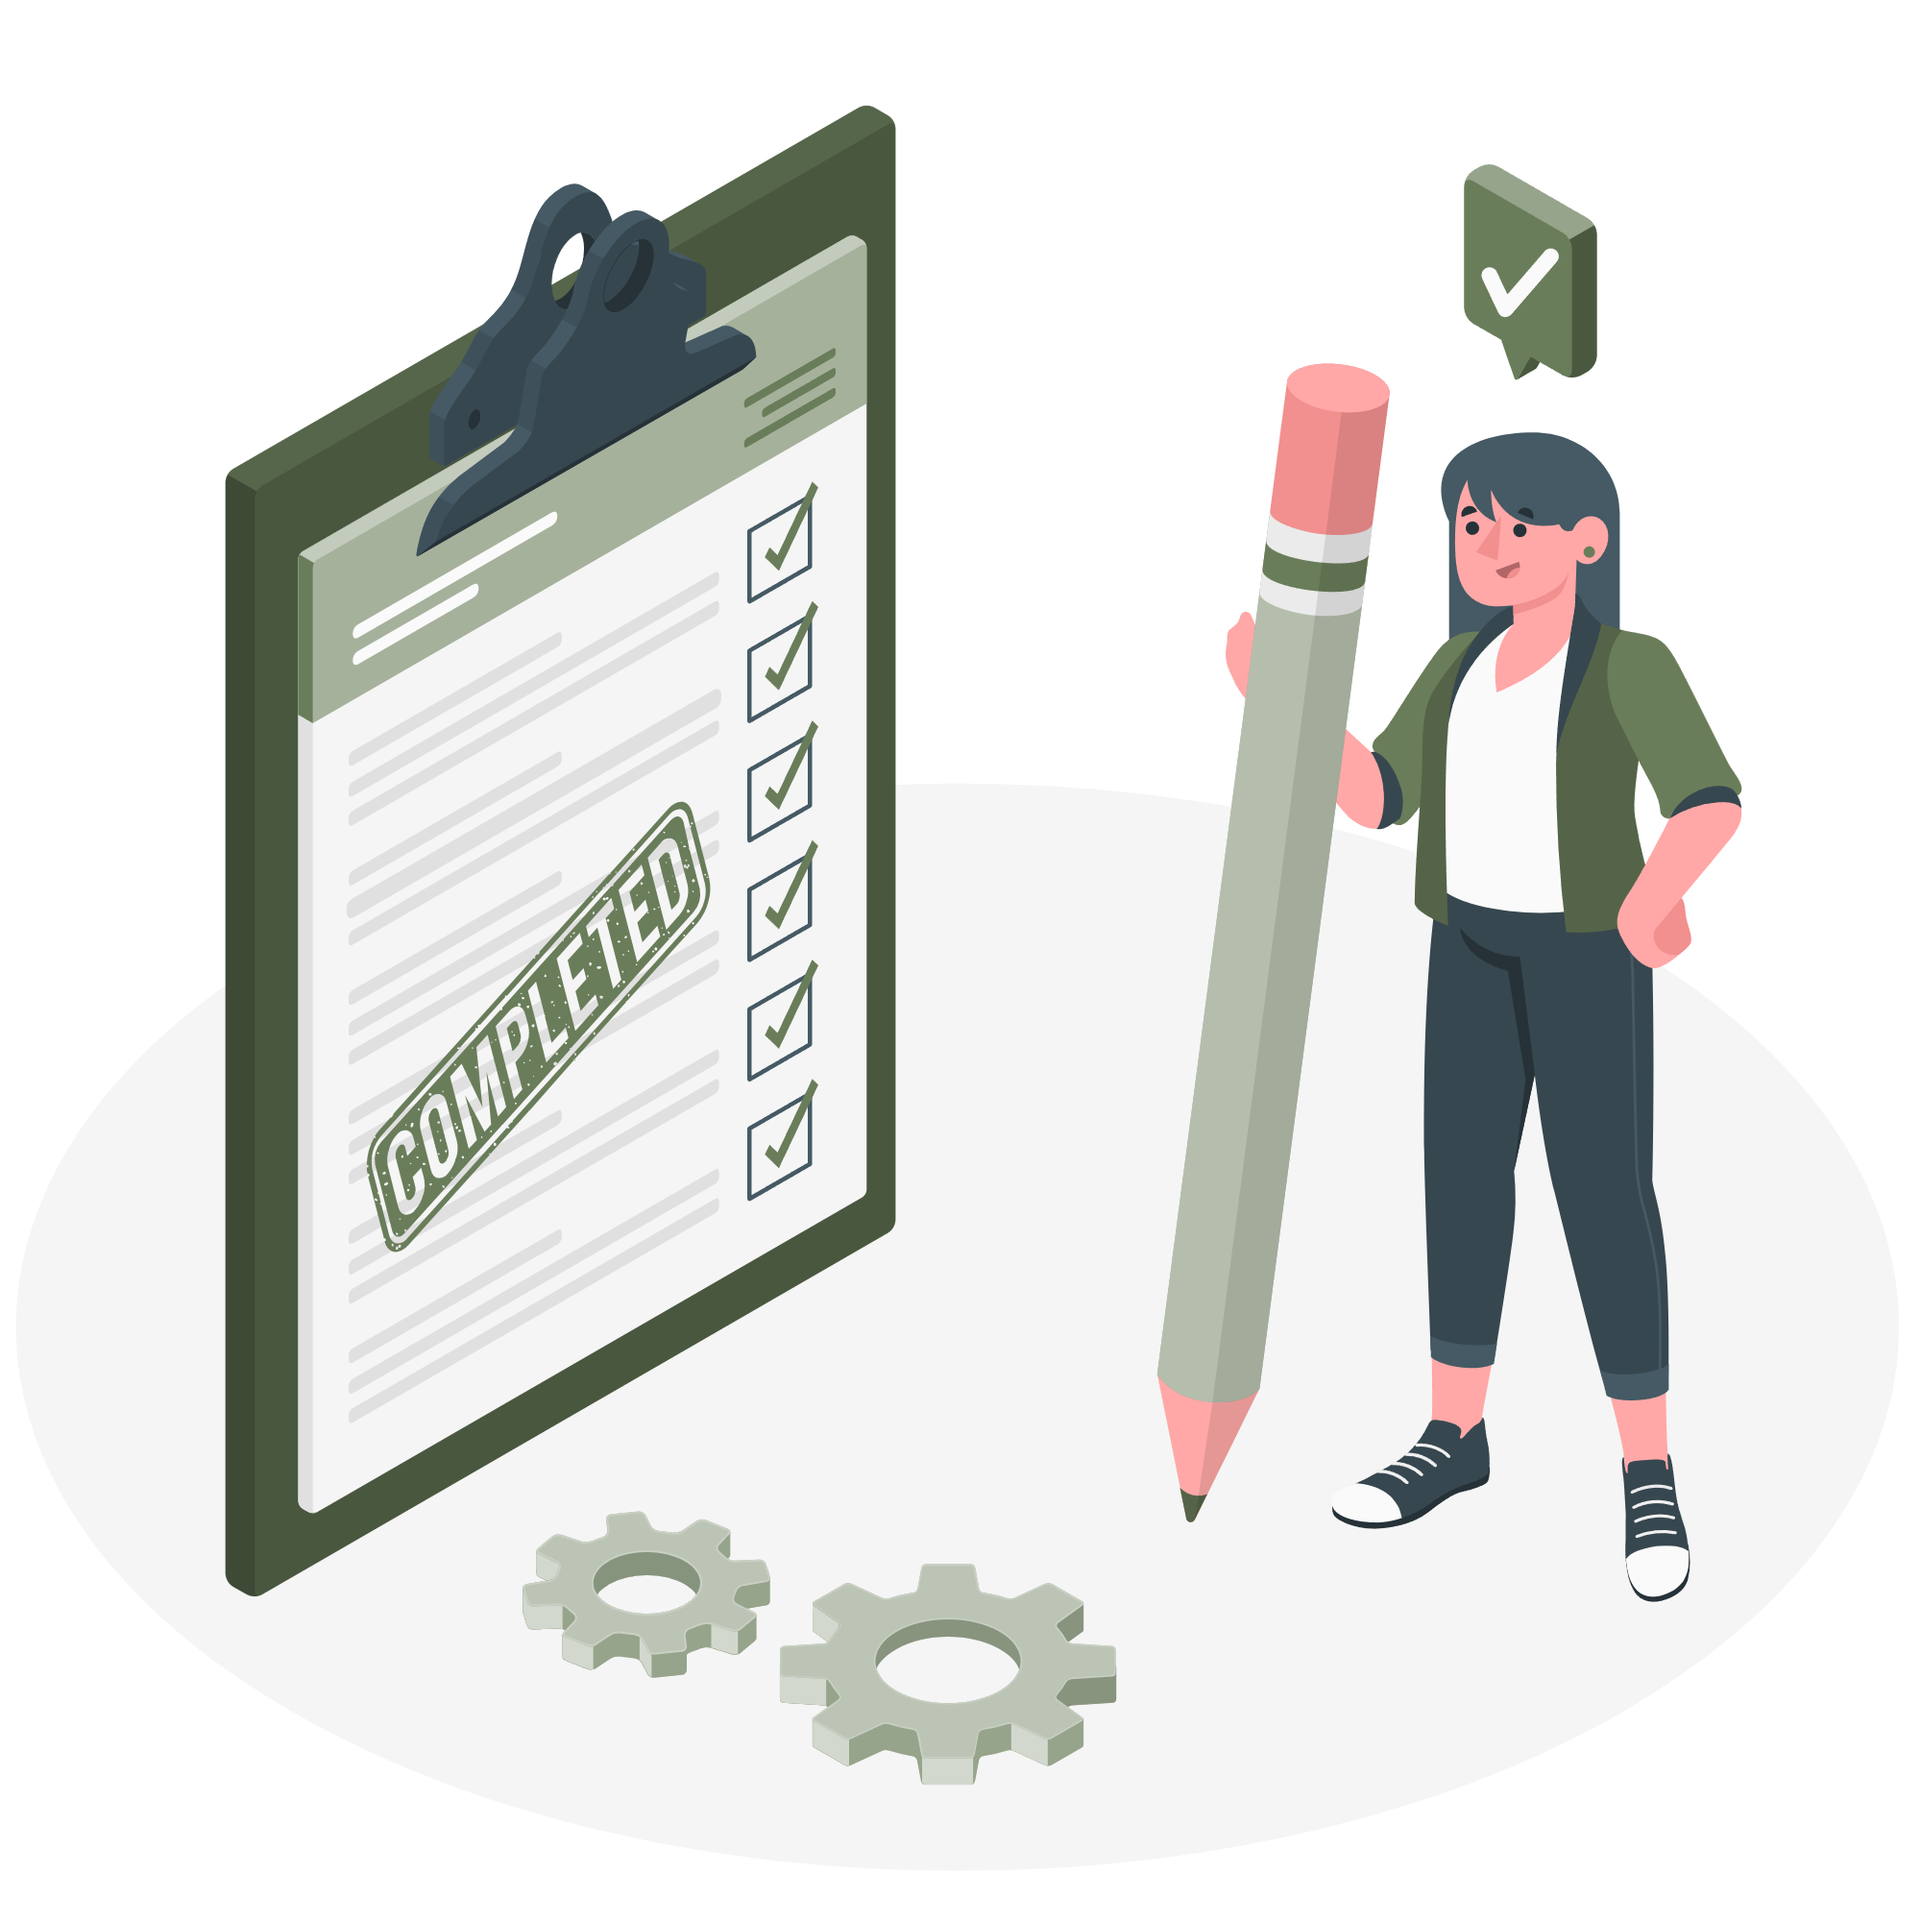
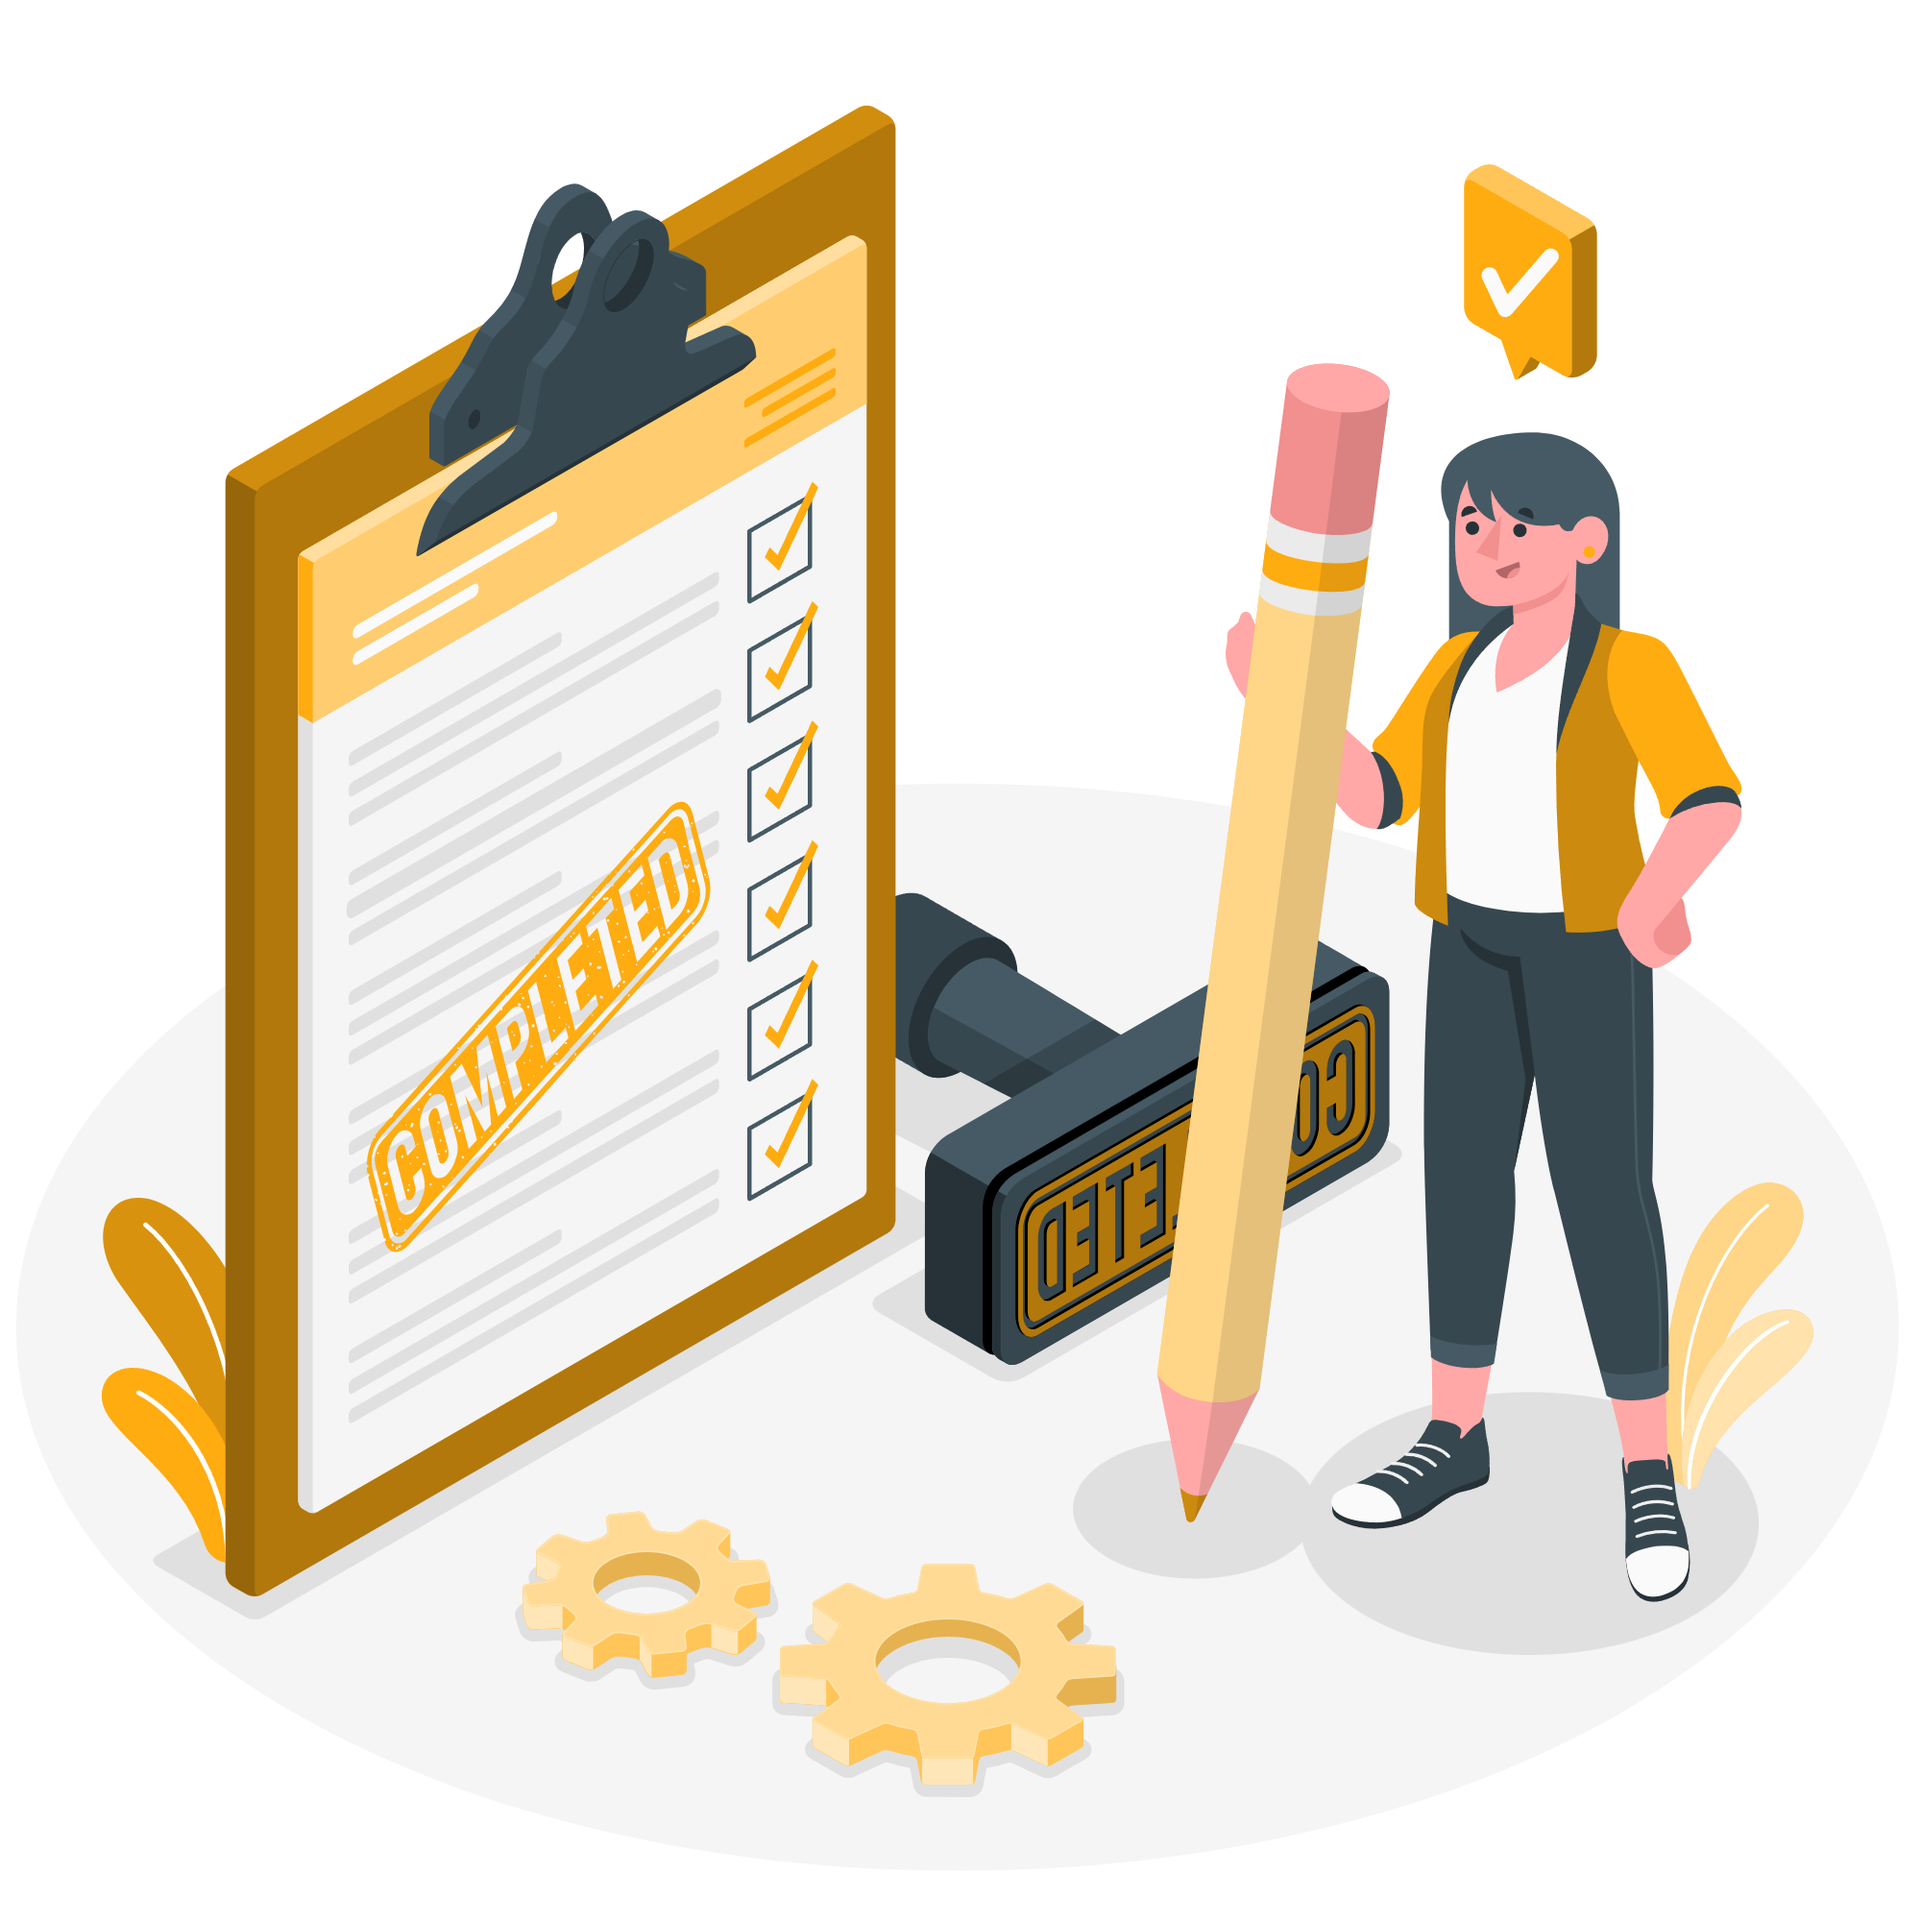
second commit

diff --git a/src/pages/pages_component/MapButton.tsx b/src/pages/pages_component/MapButton.tsx
@@ -1,29 +1,37 @@
 import { Link } from "react-router-dom"
-import { Map } from "lucide-react"
+import { MapPin } from "lucide-react"
 
 export default function MapButton() {
   return (
     <Link to="/map" className="inline-block">
-      <button className="group relative overflow-hidden rounded-2xl bg-gradient-to-r from-[#6A7D5A] via-[#73714D] to-[#6A7D5A] p-[2px] transition-all duration-300 hover:shadow-2xl hover:shadow-[#6A7D5A]/25">
-        {/* Animated background glow */}
-        <div className="absolute inset-0 bg-gradient-to-r from-[#6A7D5A] via-[#73714D] to-[#6A7D5A] opacity-0 transition-opacity duration-300 group-hover:opacity-20 animate-pulse" />
+      <button
+        className="
+          relative
+          bg-transparent
+          border-2 border-red-500
+          px-10 py-3
+          font-black text-red-500 text-lg
+          tracking-widest
+          transition-all duration-200
+          hover:bg-red-500 hover:text-black
+          hover:shadow-lg hover:shadow-red-500/50
+          active:scale-95 font-cascadia
+          flex items-center gap-2
+        "
+      >
+        {/* Inner border effect */}
+        <div className="absolute inset-1 border border-red-500/50" />
 
-        {/* Button content */}
-        <div className="relative flex items-center gap-3 rounded-2xl bg-[#f5f7fa] px-8 py-4 transition-all duration-300 group-hover:bg-[#F5EEE2]/90">
-          {/* Icon with shake animation */}
-          <Map className="h-6 w-6 text-[#6A7D5A] transition-all duration-300 group-hover:text-[#73714D] group-hover:animate-bounce" />
+        <span className="relative z-10 flex items-center gap-2">
+          <MapPin className="w-5 h-5" />
+          Lihat Map
+        </span>
 
-          {/* Text with gradient effect */}
-          <span className="text-lg font-semibold bg-gradient-to-r from-[#6A7D5A] to-[#73714D] bg-clip-text text-transparent transition-all duration-300 group-hover:from-[#73714D] group-hover:to-[#6A7D5A]">
-            Lihat Peta
-          </span>
-
-          {/* Shine effect */}
-          <div className="absolute inset-0 -translate-x-full bg-gradient-to-r from-transparent via-white/30 to-transparent transition-transform duration-700 group-hover:translate-x-full" />
-        </div>
-
-        {/* Pulse ring effect */}
-        <div className="absolute inset-0 rounded-2xl border-2 border-[#6A7D5A] opacity-0 transition-all duration-300 group-hover:opacity-100 group-hover:scale-110 group-hover:border-[#73714D]" />
+        {/* Animated corner elements */}
+        <div className="absolute top-0 left-0 w-3 h-3 border-t-2 border-l-2 border-yellow-400" />
+        <div className="absolute top-0 right-0 w-3 h-3 border-t-2 border-r-2 border-yellow-400" />
+        <div className="absolute bottom-0 left-0 w-3 h-3 border-b-2 border-l-2 border-yellow-400" />
+        <div className="absolute bottom-0 right-0 w-3 h-3 border-b-2 border-r-2 border-yellow-400" />
       </button>
     </Link>
   )

diff --git a/src/pages/pages_component/EvaBG.tsx b/src/pages/pages_component/EvaBG.tsx
@@ -1,0 +1,70 @@
+import React from 'react';
+
+export default function Eva() {
+  return (
+    <div className="absolute inset-0 z-0 pointer-events-none">
+      <svg width="100%" height="100%" className="absolute inset-0">
+        <defs>
+          <linearGradient id="neonGradient" x1="0" y1="0" x2="1" y2="1">
+            <stop offset="0%" stopColor="#FF003C" />
+            <stop offset="100%" stopColor="#FF87AB" />
+          </linearGradient>
+
+          <pattern
+            id="tight-honeycomb"
+            x="0"
+            y="0"
+            width="34.64"
+            height="30"
+            patternUnits="userSpaceOnUse"
+          >
+            <polygon
+              points="17.32,0 34.64,10 34.64,20 17.32,30 0,20 0,10"
+              fill="none"
+              stroke="url(#neonGradient)"
+              strokeWidth="1.0"
+              className="animate-glow"
+            />
+          </pattern>
+
+          <filter
+            id="glow"
+            x="-50%"
+            y="-50%"
+            width="200%"
+            height="200%"
+            colorInterpolationFilters="sRGB"
+          >
+            <feDropShadow dx="0" dy="0" stdDeviation="2" floodColor="#FF003C" floodOpacity="0.7" />
+            <feDropShadow dx="0" dy="0" stdDeviation="4" floodColor="#FF87AB" floodOpacity="0.5" />
+          </filter>
+        </defs>
+
+        <rect
+          width="100%"
+          height="100%"
+          fill="url(#tight-honeycomb)"
+          opacity="0.15"
+          filter="url(#glow)"
+        />
+      </svg>
+
+      <style>{`
+        @keyframes glowPulse {
+          0%, 100% {
+            stroke-opacity: 1;
+            filter: drop-shadow(0 0 6px #FF003C);
+          }
+          50% {
+            stroke-opacity: 0.4;
+            filter: drop-shadow(0 0 12px #FF87AB);
+          }
+        }
+        .animate-glow {
+          animation: glowPulse 2.5s ease-in-out infinite;
+          filter: drop-shadow(0 0 4px #FF003C);
+        }
+      `}</style>
+    </div>
+  );
+}

diff --git a/src/pages/pages_component/HeroSection.tsx b/src/pages/pages_component/HeroSection.tsx
@@ -1,16 +1,22 @@
 import React from "react";
 import MapButton from "./MapButton";
+import Eva from "./EvaBG";
 
 const HeroSection: React.FC = () => {
   return (
-    <section className="py-20 px-8 sm:px-12 lg:px-16" id="beranda">
-      <div className="max-w-full mx-auto">
+    <section
+      className="relative py-20 px-8 sm:px-12 lg:px-16" // <== Tambah relative di sini!
+      id="beranda"
+    >
+      <Eva /> {/* harus posisi absolute, lihat poin 2 */}
+      <div className="max-w-full mx-auto relative z-10">
+        {" "}
+        {/* kasih z-index agar di atas background */}
         <div className="text-center mb-8">
-          <p className="text-[#717171] text-xl font-bold tracking-wider mb-4 text-center">
+          <p className="text-[#5C3B00] text-xl font-bold tracking-wider mb-4 text-center">
             Welcome to SeismoTrack
           </p>
         </div>
-
         <div className="grid lg:grid-cols-2 items-center">
           {/* Gambar di kiri */}
           <div className="order-1 flex justify-center">
@@ -23,10 +29,10 @@ const HeroSection: React.FC = () => {
 
           {/* Teks di kanan */}
           <div className="order-2">
-            <h1 className="text-4xl lg:text-5xl font-bold text-[#000000] mb-3 leading-tight">
+            <h1 className="text-4xl lg:text-5xl font-bold text-[#5C3B00] mb-3 leading-tight">
               Real-time Earthquake Monitoring.
             </h1>
-            <p className="text-[#717171] text-lg mb-8 leading-relaxed">
+            <p className="text-[#0D0D0D] text-lg mb-8 leading-relaxed">
               Pantau aktivitas gempa secara langsung dan dapatkan insight dari
               data yang tervisualisasi dengan baik.
             </p>

diff --git a/src/pages/pages_component/EarthquakeSection.tsx b/src/pages/pages_component/EarthquakeSection.tsx
@@ -2,10 +2,12 @@
 import React from "react";
 import EarthquakeChart from "./EarthquakeChart";
 import EarthquakeLocationChart from "./EarthquakeLocationChart";
+import Eva from "./EvaBG";
 
 const EarthquakeSection: React.FC = () => {
   return (
-    <section id="grafik" className="py-16 bg-white">
+    <section id="grafik" className="py-16 bg-[#F5F5F5] relative">
+      <Eva />
       <div className="container mx-auto px-4">
         <h2 className="text-[#717171] text-xl font-bold tracking-wider uppercase mb-8 text-center">
           Statistik Gempa

diff --git a/src/pages/HomePage.tsx b/src/pages/HomePage.tsx
@@ -7,15 +7,18 @@ import EarthquakeSection from "./pages_component/EarthquakeSection";
 
 export default function HomePage() {
   return (
-    <div className="min-h-screen bg-[#f5f7fa] font-cascadia scroll-smooth">
+    <div className="min-h-screen font-cascadia scroll-smooth">  
+
       {/* Header */}
       <Header />
 
       {/* Hero Section */}
       <HeroSection />
+
       {/* Feature Section */}
       <FeatureSection />
 
+      {/* Earthquake Chart Section */}
       <EarthquakeSection />
 
       {/* About Section */}

diff --git a/src/pages/pages_component/Pages_header.tsx b/src/pages/pages_component/Pages_header.tsx
@@ -46,7 +46,7 @@ const Header: React.FC = () => {
                 className={clsx(
                   "relative py-2 text-md font-cascadia transition-colors duration-300 ease-in-out font-bold capitalize",
                   activeSection === item
-                    ? "text-transparent bg-clip-text bg-gradient-to-r from-[#6A7D5A] to-[#73714D]"
+                    ? "text-transparent bg-clip-text bg-gradient-to-r from-[#5C3B00] to-[#333333]"
                     : "text-slate-400"
                 )}
               >

diff --git a/src/pages/pages_component/AboutSection.tsx b/src/pages/pages_component/AboutSection.tsx
@@ -4,7 +4,7 @@ import AboutText from "./AboutText";
 
 export default function AboutSection() {
   return (
-    <section className="py-20 px-6 sm:px-12 lg:px-16 bg-[#f5f7fa] scroll-smooth" id="about">
+    <section className="py-20 px-6 sm:px-12 lg:px-16 scroll-smooth" id="about">
       <div className="max-w-full mx-auto">
         <div className="grid lg:grid-cols-2 gap-12 items-start">
           <div>
